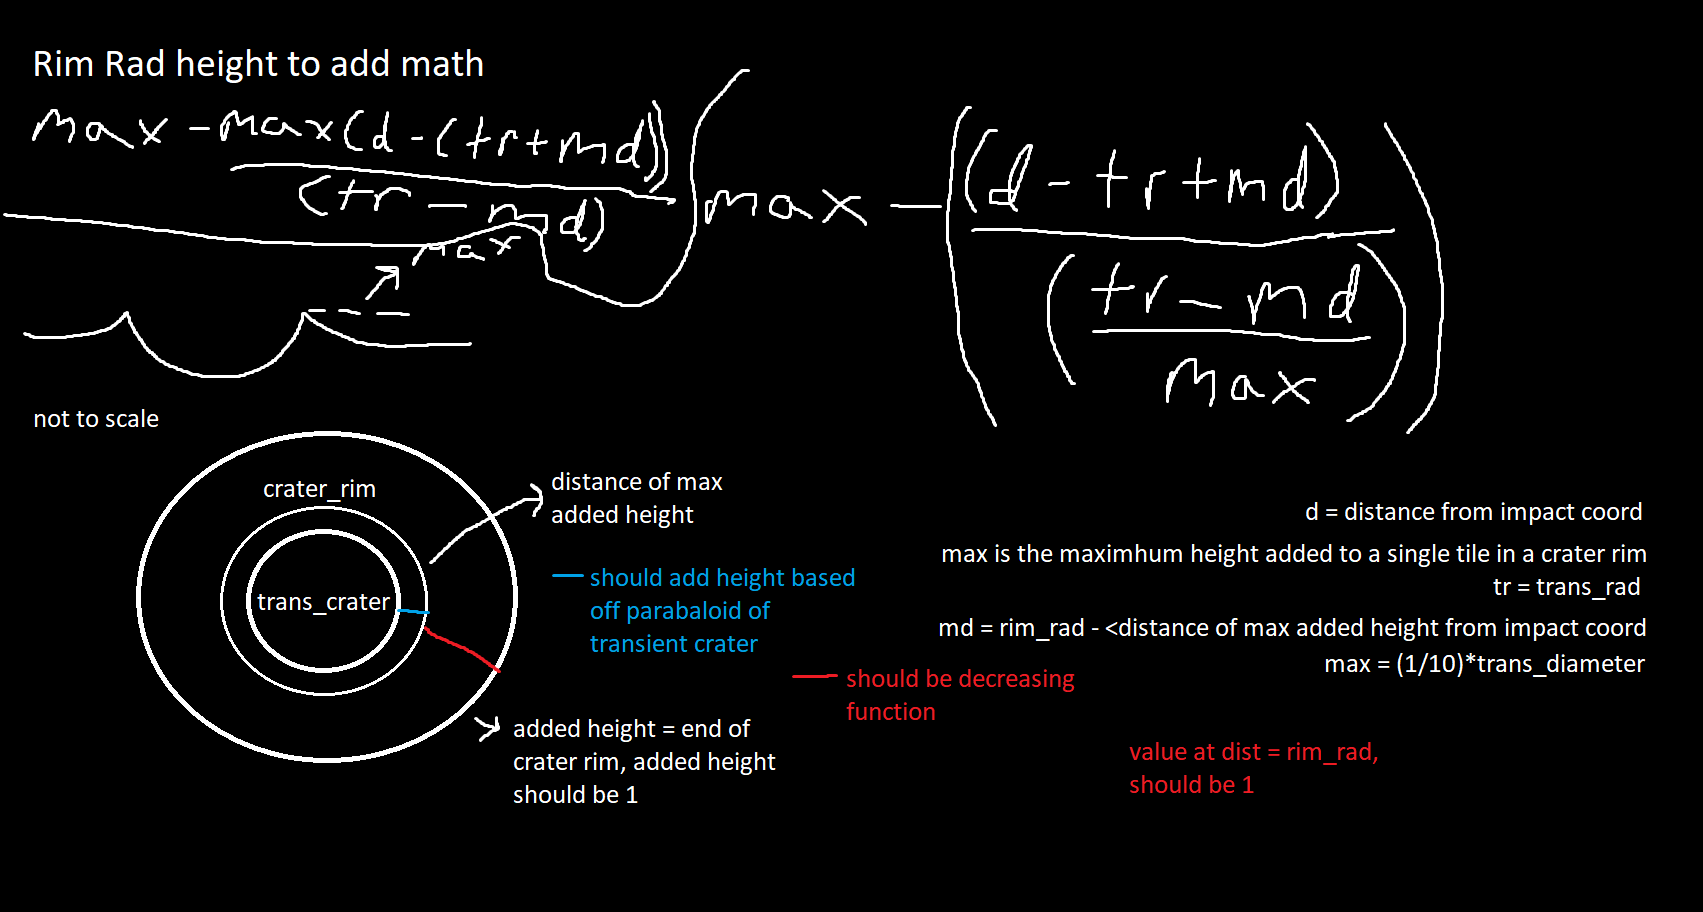
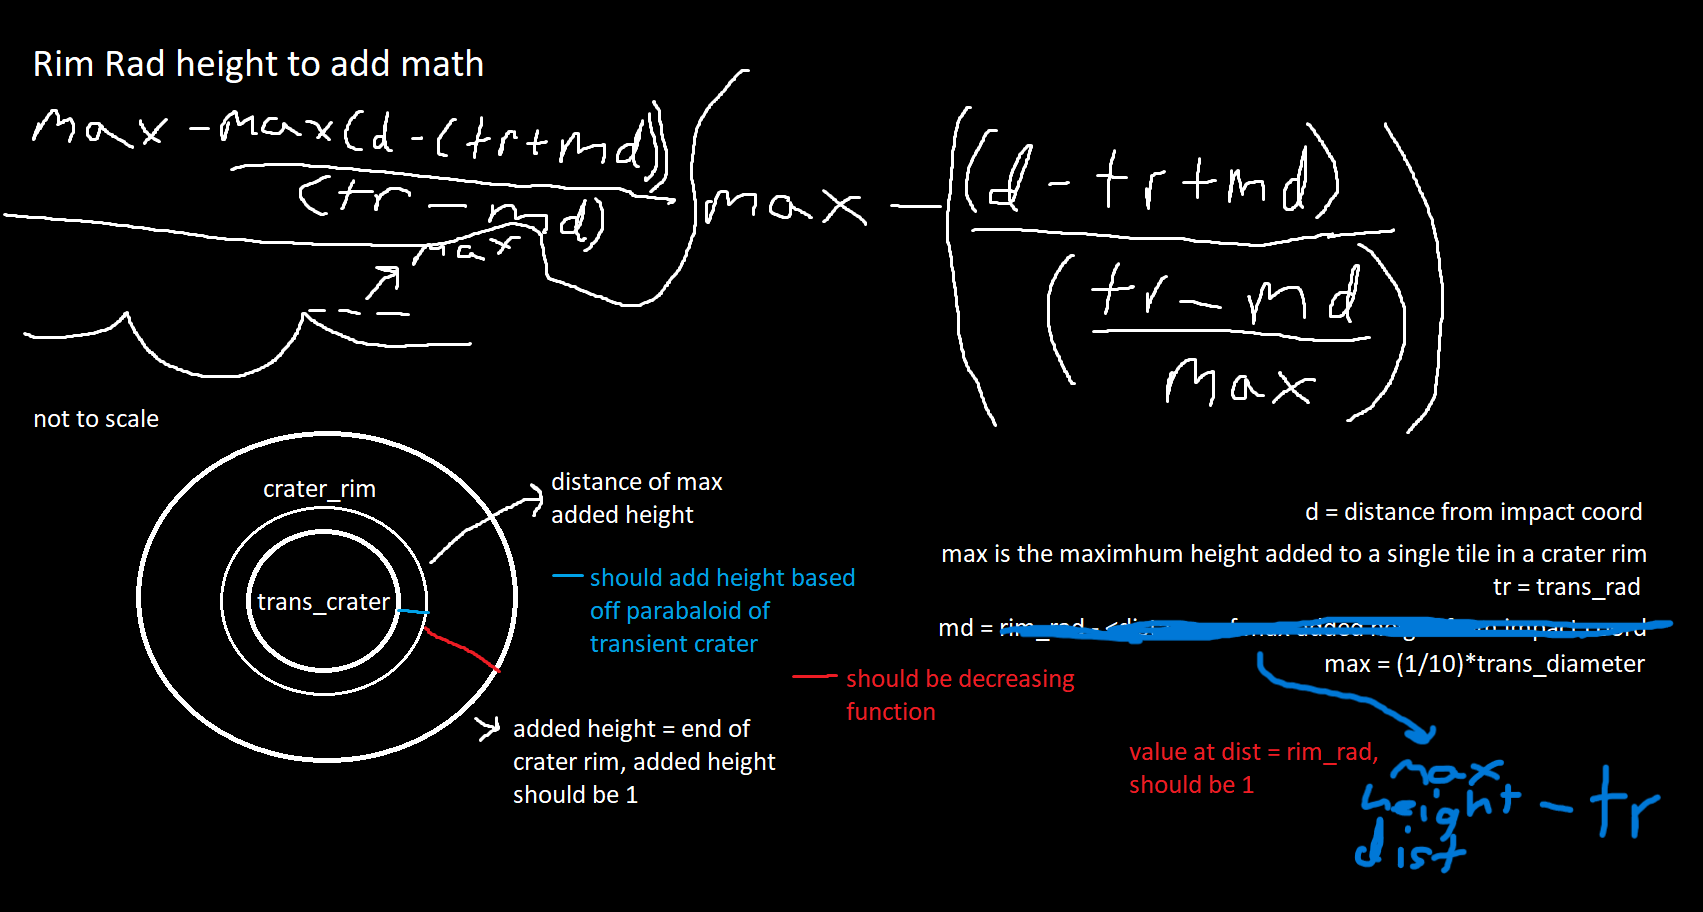
finished writing build_crater_rim() unit test, updated tasks, edited rim_height_math.png

Changed region(s): [[0.778, 0.7675, 0.9959, 0.9518], [0.5913, 0.6754, 0.9959, 0.7368], [0.7469, 0.7368, 0.8092, 0.7675]]

diff --git a/mimic/src/unit_tests/feature_generator_tests/impact_generator_test.rs b/mimic/src/unit_tests/feature_generator_tests/impact_generator_test.rs
@@ -1,3 +1,5 @@
+use std::cmp::max;
+
 #[cfg(test)]
 use super::*;
 use crate::modules::feature_generators::utility::Distribution;
@@ -201,11 +203,11 @@ fn test_crater_tiles_coords() {
     let mut iter = 0;
     found_edge_tile = false;
     assert_eq!(crater_tiles_coords.len(), (rad + 1) as usize);
-    println!("outer len: {}", crater_tiles_coords.len());
+    //println!("outer len: {}", crater_tiles_coords.len());
     for row in crater_tiles_coords {
         iter += 1;
         assert!(row.len() > 0);
-        println!("inner len: {}", row.len());
+        //println!("inner len: {}", row.len());
         for coord in row {
             let rad_int: i32 = rad as i32;
 
@@ -279,7 +281,7 @@ fn test_crater_tiles_coords() {
             let mut x_coord: i32 = *coord.get_X() as i32;
             if x_coord <= (*a_map.get_width() as i32 / 2) {
                 x_coord += *a_map.get_width() as i32;
-                println!("x_coord x exceeds map width: {}", x_coord.clone());
+                //println!("x_coord x exceeds map width: {}", x_coord.clone());
             }
             x_coord -= x as i32;
 
@@ -316,7 +318,7 @@ fn test_crater_tiles_coords() {
                 let mut x_coord: i32 = *coord.get_X() as i32;
                 if x_coord <= (*a_map.get_width() as i32 / 2) {
                     x_coord += *a_map.get_width() as i32;
-                    println!("x_coord x exceeds map width: {}", x_coord.clone());
+                    //println!("x_coord x exceeds map width: {}", x_coord.clone());
                 }
                 x_coord -= x as i32;
     
@@ -353,7 +355,7 @@ fn test_crater_tiles_coords() {
                 let mut x_coord: i32 = *coord.get_X() as i32;
                 if x_coord > (*a_map.get_width() as i32 / 2) {
                     x_coord -= *a_map.get_width() as i32;
-                    println!("x_coord x exceeds map width: {}", x_coord.clone());
+                    //println!("x_coord x exceeds map width: {}", x_coord.clone());
                 }
                 x_coord -= x as i32;
     
@@ -393,8 +395,8 @@ fn test_dig_transient_crater() {
     let trans_rad: f32 = (vari*(crater_depth as f32))/3.0;
     let rim_rad: f32 = (trans_rad* (1.3 + rand::thread_rng().gen_range(0.0..=0.7))).round();
     //convert rads to u16
-    let trans_rad: u16 = trans_rad as u16;
-    let rim_rad: u16 = rim_rad as u16;
+    let trans_rad: u16 = trans_rad.round() as u16;
+    let rim_rad: u16 = rim_rad.round() as u16;
     //println!("trans_rad as u16: {}", trans_rad); debug
     //println!("rim_rad as u16: {}", rim_rad); //debug
 
@@ -444,45 +446,134 @@ fn test_dig_transient_crater() {
 
 #[test]
 fn test_build_crater_rim() {
+    //running 100 trials to ensure confidence across a large number of possible crater variances
+    for trial in 0..=100 {
+        //setup
+        let mut a_map: Map = Default::default();
+        a_map.update_tiles(|a_tile: &mut Tile| {
+            a_tile.set_height(200);
+        });
 
-    //setup
-    let mut a_map: Map = Default::default();
-    a_map.update_tiles(|a_tile: &mut Tile| {
-        a_tile.set_height(200);
-    });
+        //impact coordinate
+        let x: usize = 500;
+        let y: usize = 400;
+        let mut an_impact_coord: Coordinate = Coordinate::new(x, y);
 
-    //impact coordinate
-    let x: usize = 500;
-    let y: usize = 400;
-    let mut an_impact_coord: Coordinate = Coordinate::new(x, y);
+        //Make crater
+        //depth, radii, and variance
+        let an_impact_coord_height: u16 = *a_map.get_tile(x, y).get_height() as u16;
+        let crater_depth: u16 = 15;
+        let vari: f32 = rand::thread_rng().gen_range(3.0..=4.0);
+        let trans_rad: f32 = (vari*(crater_depth as f32))/3.0;
+        let rim_rad: f32 = (trans_rad * (1.3 + rand::thread_rng().gen_range(0.0..=0.7))).round();
 
-    //Make crater
-    //depth, radii, and variance
-    let an_impact_coord_height: u16 = *a_map.get_tile(x, y).get_height() as u16;
-    let crater_depth: u16 = 15;
-    let vari: f32 = rand::thread_rng().gen_range(3.0..=4.0);
-    let trans_rad: f32 = (vari*(crater_depth as f32))/3.0;
-    let rim_rad: f32 = (trans_rad* (1.3 + rand::thread_rng().gen_range(0.0..=0.7))).round();
+        //convert rads to u16
+        let trans_rad: u16 = trans_rad.round() as u16;
+        let rim_rad: u16 = rim_rad.round() as u16;
+        //println!("trans_rad: {}", trans_rad);
+        //println!("rim_rad: {}", rim_rad);
 
-    //convert rads to u16
-    let trans_rad: u16 = trans_rad as u16;
-    let rim_rad: u16 = rim_rad as u16;
+        let tiles_coords: Vec<Vec<Coordinate>> = 
+            ImpactGenerator::crater_tiles_coords(&mut a_map, trans_rad + rim_rad, &an_impact_coord);
 
-    let tiles_coords: Vec<Vec<Coordinate>> = 
-        ImpactGenerator::crater_tiles_coords(&mut a_map, trans_rad + rim_rad, &an_impact_coord);
+        let mut a_crater: Crater = Crater::new(vari, trans_rad, rim_rad,an_impact_coord_height, crater_depth, tiles_coords);
 
-    let mut a_crater: Crater = Crater::new(vari, trans_rad, rim_rad,an_impact_coord_height, crater_depth, tiles_coords);
+        /************************************
+        * get predicted added_height range *
+        ************************************/
 
-    //get predicted added_height range
-    let mut rim_added_height_range: Vec<u16> = Vec::new();
-    for dist_from_center in (trans_rad + 1)..=rim_rad {
+        let mut rim_added_height_range: Vec<u16> = Vec::new();
+        let max_added_height: f32 = ((0.1) * (2.0 * trans_rad as f32));
+        let rounded_max: f32 = max_added_height.round();
+        //println!("max_added_height: {}", max_added_height);
 
+        //upward slope to max_added_height from crater center
+        let ax_dividend: f32 = (crater_depth as f32) * (vari.powi(2));
+        let c: f32 = crater_depth as f32;
+        let mut max_height_dist: u16 = 65535;
+
+        for dist_from_center in (trans_rad + 1)..=rim_rad {
+            let ax_divisor: f32 = 9.0 * (dist_from_center as f32).powi(2);
+            let height_to_add: f32 =  ((ax_divisor/ax_dividend) - c).round();
+            if height_to_add > rounded_max {
+                max_height_dist = dist_from_center;
+                //println!("max_height_dist: {}", max_height_dist);
+                break;
+            }
+            
+            //convert height_to_add to a u16
+            let height_to_add: u16 = height_to_add as u16;
+            //println!("height_to_add, increasing slope: {}", height_to_add);
+            rim_added_height_range.push(height_to_add);
+        }
+
+        //test upward slope height range from crater center
+        for height_to_add in rim_added_height_range.clone() {
+            assert!(height_to_add <= rounded_max as u16);
+        }
+
+        //downward slope from max_height_dist to crater edge, refer to rim_height_math.png for name definitions
+        let md: u16 = max_height_dist - trans_rad;
+        //println!("md: {}", md);
+        let dividend: f32 = (trans_rad as f32 + md as f32);
+
+        for dist_from_center in (max_height_dist)..=rim_rad {
+            let divisor: f32 = max_added_height * (dist_from_center as f32 - (trans_rad as f32 - md as f32));
+
+            let height_to_add: u16 = (max_added_height as f32 - (divisor/dividend)).round() as u16;
+            //println!("height_to_add, decreasing slope: {}", height_to_add);
+            rim_added_height_range.push(height_to_add);
+        }
+
+        //test downward slope height range from crater center
+        for height_to_add in rim_added_height_range.clone() {
+            //println!("{}", height_to_add);
+            assert!(rounded_max as u16 >= height_to_add && height_to_add >= 0);
+        }
+
+        /************************
+         * test build_crater_rim
+         ************************/
+        
+        //get coordinates to be tested
+        let mut rim_tiles: Vec<Vec<Coordinate>> = Vec::new();
+
+        for index in (trans_rad as usize + 1)..=rim_rad as usize {
+            rim_tiles.push(a_crater.get_tiles_coords()[index].clone());
+
+            //make sure rim_tiles added the row successfully
+            assert_eq!(rim_tiles[index - (trans_rad as usize + 1)].len(), a_crater.get_tiles_coords()[index].len());
+        }
+        //make sure rim_tiles added the all target rows, + 1 to rim_rad - (trans_rad + 1) due to len being one bigger than range of
+        //rim_tiles' slice of a_crater.tiles_coords
+        assert_eq!(rim_tiles.len(), (rim_rad-(trans_rad + 1) + 1) as usize);
+
+        let mut old_tile_heights: Vec<Vec<i32>> = Vec::new();
+        for (index,row) in rim_tiles.iter().enumerate() {
+            old_tile_heights.push(Vec::new());
+            for coord in row {
+                let an_old_height: i32 = a_map.get_tile(*coord.get_X(), *coord.get_Y()).get_height().clone();
+                old_tile_heights[index].push(an_old_height);
+                //println!("{}", an_old_height);
+            }
+            assert_eq!(old_tile_heights[index].len(), row.len());
+        }
+        assert_eq!(old_tile_heights.len(), rim_tiles.len());
+
+        a_crater.build_crater_rim(&mut a_map);
+        
+        //test height at each tile in crater rim
+        for (rowIndex, row) in rim_tiles.iter().enumerate() {
+            //println!("{}", rim_added_height_range[rowIndex]);
+            for (coordIndex, coord) in row.iter().enumerate() {
+                let tile_to_test: &Tile = a_map.get_tile(*coord.get_X(), *coord.get_Y());
+                if *tile_to_test.get_height() <= old_tile_heights[rowIndex][coordIndex] + rim_added_height_range[rowIndex] as i32 {
+                    //println!("tile_height: {}", tile_to_test.get_height());
+                }
+                assert_eq!(*tile_to_test.get_height(), (old_tile_heights[rowIndex][coordIndex] + rim_added_height_range[rowIndex] as i32));
+            }
+        }
     }
-
-    //test
-    //...
-    
-    assert!(false);
 }
 
 #[test]

diff --git a/mimic/src/modules/feature_generators/impact_generator.rs b/mimic/src/modules/feature_generators/impact_generator.rs
@@ -58,13 +58,13 @@ impl ImpactGenerator {
         &self.undistributed_height
     } 
 
-    pub fn crater_tiles_coords(a_map: &mut Map, total_rad: u16, impact_coord: &Coordinate) -> Vec<Vec<Coordinate>> {
+    pub fn crater_tiles_coords(a_map: &mut Map, rim_rad: u16, impact_coord: &Coordinate) -> Vec<Vec<Coordinate>> {
         let mut coords: Vec<Vec<Coordinate>> = Vec::new();
-        for distance in 0..=total_rad {
+        for distance in 0..=rim_rad {
             coords.push(Vec::new());
         }
 
-        let rad_int: i16 = total_rad as i16;
+        let rad_int: i16 = rim_rad as i16;
 
         let mut tile_count: i32 = 0;
 
@@ -126,7 +126,7 @@ pub struct Crater {
 
 impl Crater {
     pub fn new(vari: f32, trans_rad: u16, rim_rad: u16, impact_height: u16, depth: u16, coords: Vec<Vec<Coordinate>>) -> Crater {
-        println!("vari in Crater::new(): {}", vari);
+        //println!("vari in Crater::new(): {}", vari);
         Crater {
             variance: vari,
             transient_radius: trans_rad,

diff --git a/docs/Tasks.md b/docs/Tasks.md
@@ -20,6 +20,7 @@
 
 ### Low Priority
 
+* investigate build_crater_rim() in Impact generator to see if can fix occasional crater where rim radius ends with height_to_add for decreasing slope = 2
 * Refactor GUI for MVC and multithreading
     * look into enums
     * at bare minimum have map_processor.process_map() fork onto a different thread than the main app
